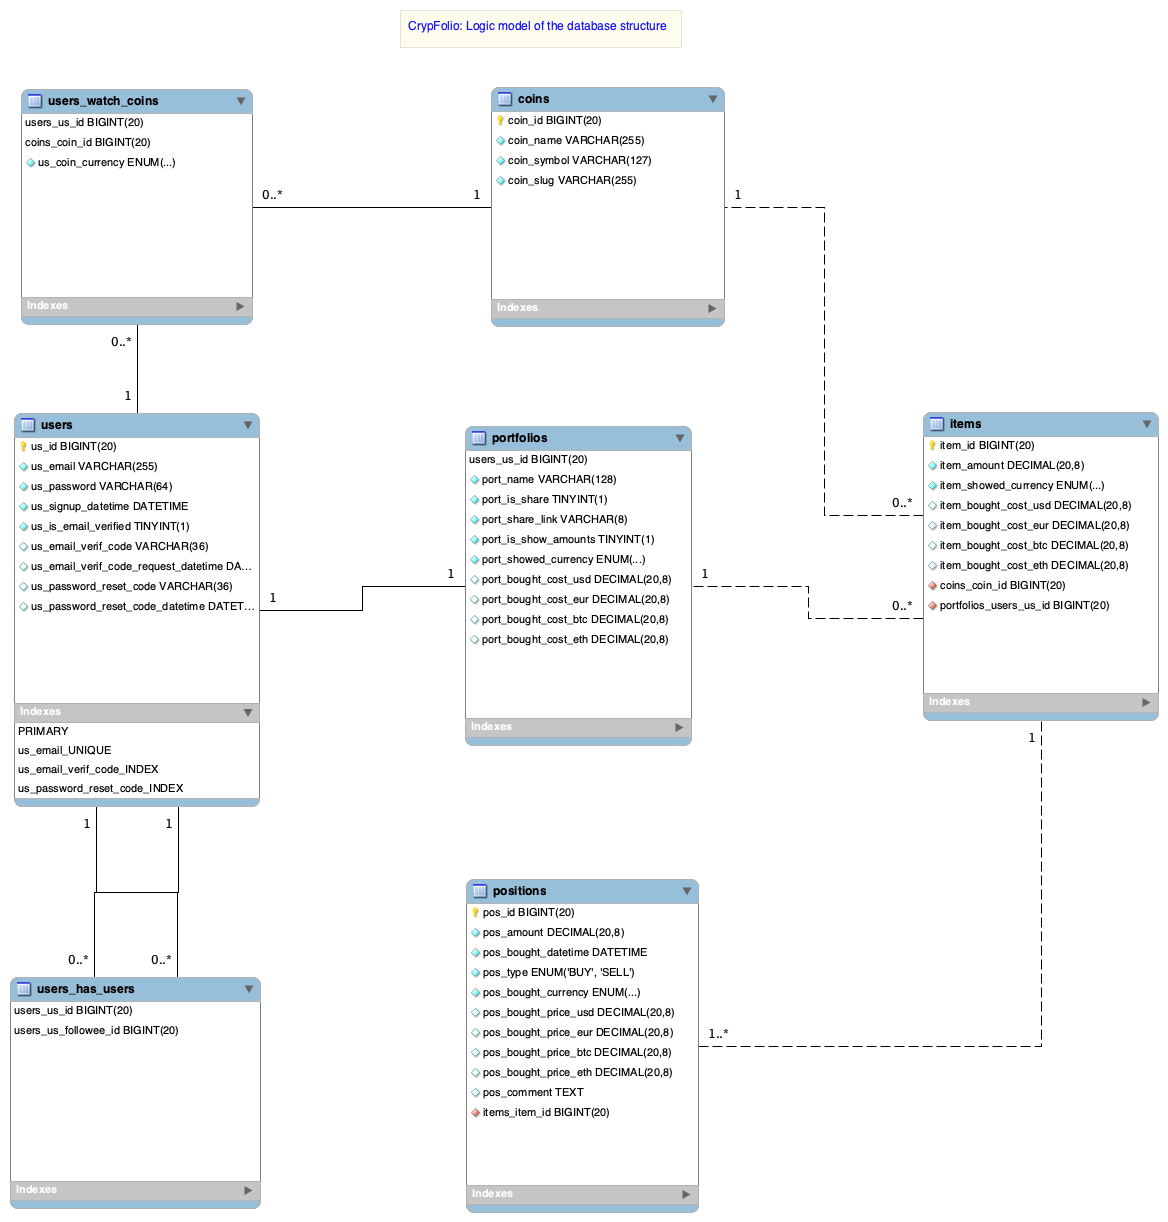
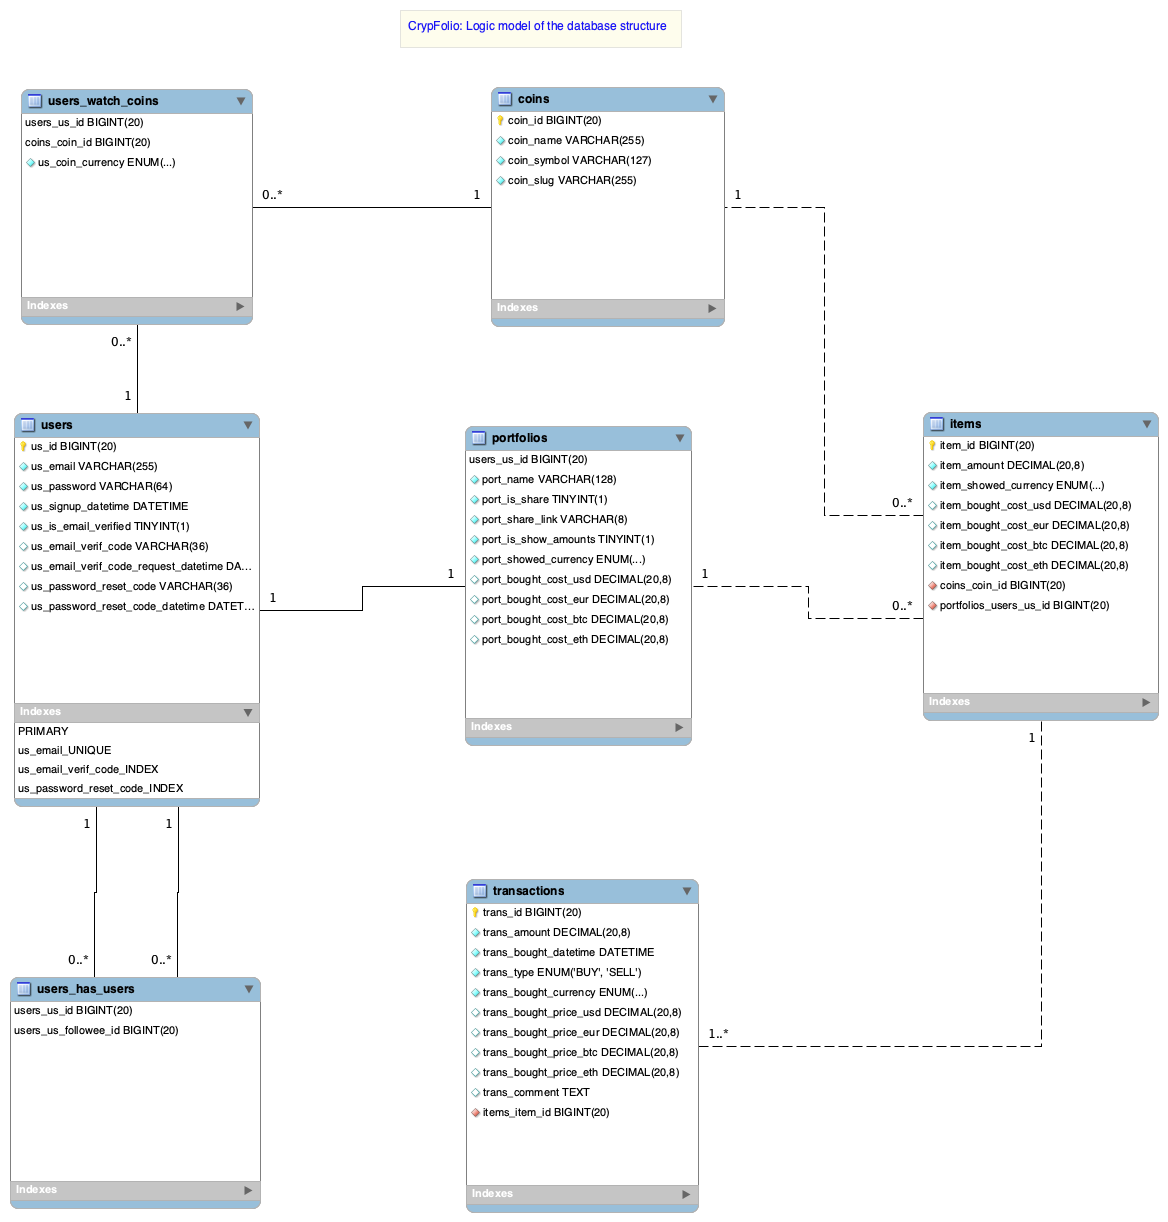
database positions renamed to transactions

Changed region(s): [[0.4007, 0.7152, 0.5856, 0.9018]]

diff --git a/crypfolio/src/main/java/tk/crypfolio/util/SelectOneButtonPositionTypeConverter.java b/crypfolio/src/main/java/tk/crypfolio/util/SelectOneButtonPositionTypeConverter.java
@@ -1,0 +1,4 @@
+package tk.crypfolio.util;
+
+public class SelectOneButtonPositionTypeConverter {
+}
